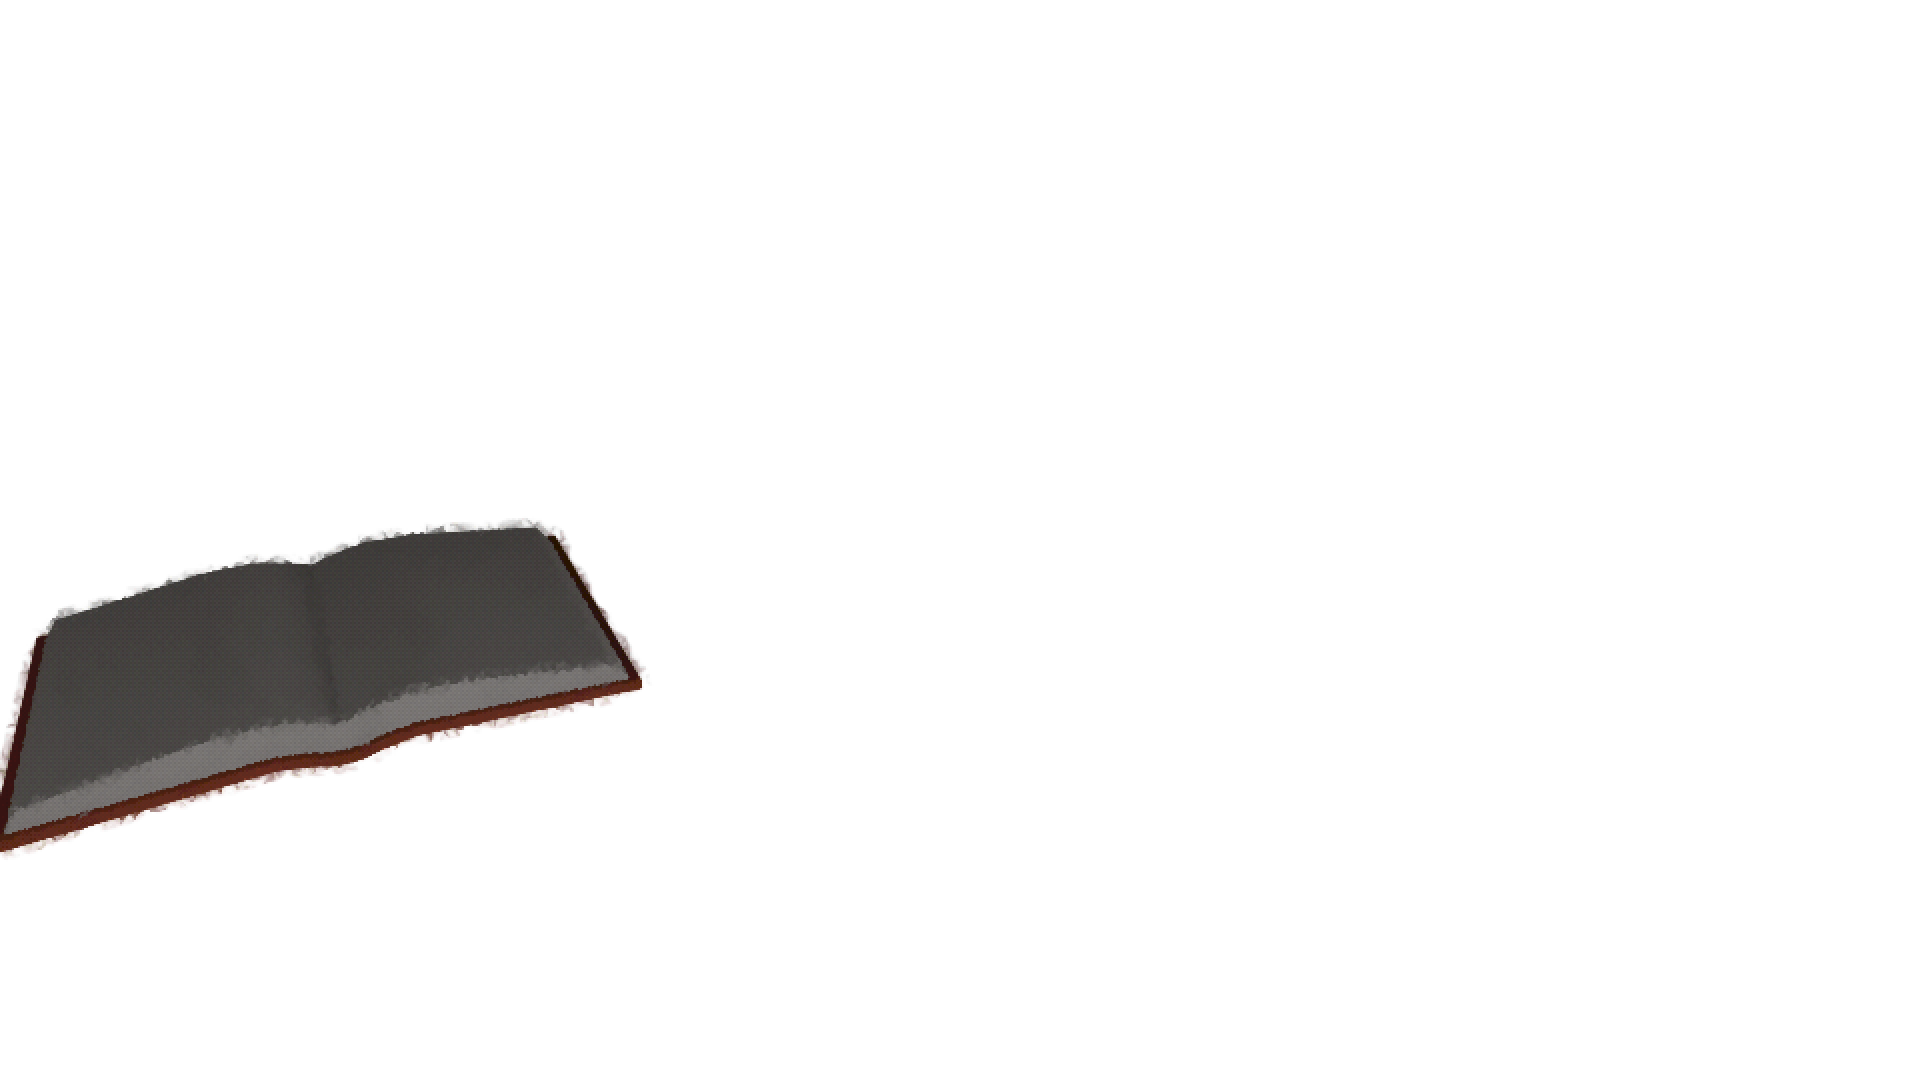
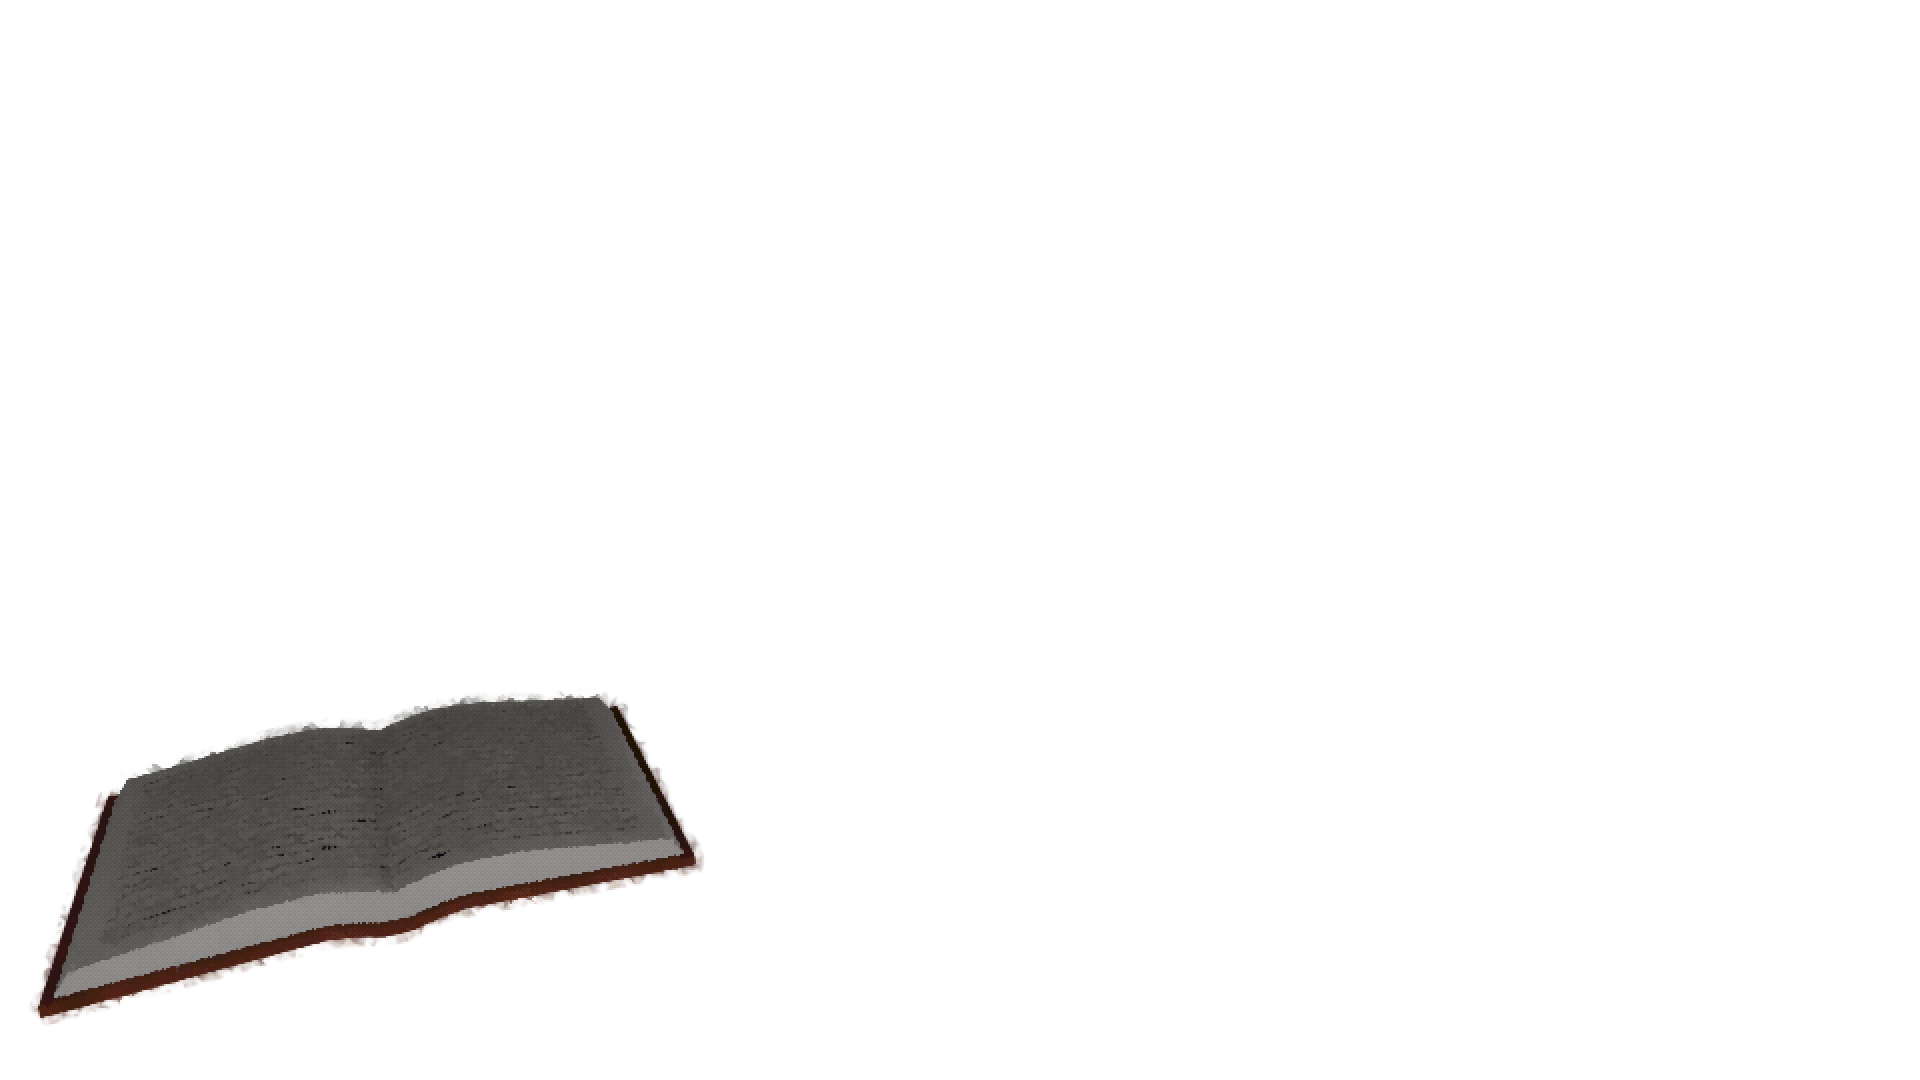
new graphics and animation

Changed region(s): [[0.0, 0.4583, 0.375, 0.9472]]

diff --git a/src/game/level.rs b/src/game/level.rs
@@ -3,7 +3,16 @@
 use bevy::{audio::Source, prelude::*};
 
 use crate::{
-    asset_tracking::LoadResource, audio::music, game::{animation::transition_scene, tooltip}, screens::{Screen, gameplay::{ShopArea::{CookingArea, Storefront}, storefront::storefront_scene}},
+    asset_tracking::LoadResource,
+    audio::music,
+    game::{animation::transition_scene, tooltip},
+    screens::{
+        Screen,
+        gameplay::{
+            ShopArea::{CookingArea, Storefront},
+            storefront::storefront_scene,
+        },
+    },
 };
 
 pub(super) fn plugin(app: &mut App) {
@@ -32,6 +41,8 @@ pub struct LevelAssets {
     #[dependency]
     pub cauldron: Handle<Image>,
     #[dependency]
+    pub cauldron_empty: Vec<Handle<Image>>,
+    #[dependency]
     pub fire: Vec<Handle<Image>>,
     #[dependency]
     pub transition_animation: Vec<Handle<Image>>,
@@ -44,7 +55,7 @@ pub struct LevelAssets {
     #[dependency]
     pub cauldron_bubbling_sfx: Handle<AudioSource>,
     #[dependency]
-    pub fire_ambience_sfx: Handle<AudioSource>
+    pub fire_ambience_sfx: Handle<AudioSource>,
 }
 
 impl FromWorld for LevelAssets {
@@ -60,47 +71,68 @@ impl FromWorld for LevelAssets {
             book_highlight_storefront: assets.load("images/highlight/Book_1.png"),
             cauldron: assets.load("images/foreground/Cauldron.png"),
             cauldron_highlight: assets.load("images/highlight/Cauldron.png"),
+            cauldron_empty: vec![
+                assets.load("images/animation/cauldron_empty/cauldron0001.png"),
+                assets.load("images/animation/cauldron_empty/cauldron0002.png"),
+                assets.load("images/animation/cauldron_empty/cauldron0003.png"),
+                assets.load("images/animation/cauldron_empty/cauldron0004.png"),
+                assets.load("images/animation/cauldron_empty/cauldron0005.png"),
+                assets.load("images/animation/cauldron_empty/cauldron0006.png"),
+                assets.load("images/animation/cauldron_empty/cauldron0007.png"),
+                assets.load("images/animation/cauldron_empty/cauldron0008.png"),
+                assets.load("images/animation/cauldron_empty/cauldron0009.png"),
+                assets.load("images/animation/cauldron_empty/cauldron0010.png"),
+                assets.load("images/animation/cauldron_empty/cauldron0011.png"),
+                assets.load("images/animation/cauldron_empty/cauldron0012.png"),
+                assets.load("images/animation/cauldron_empty/cauldron0013.png"),
+                assets.load("images/animation/cauldron_empty/cauldron0014.png"),
+                assets.load("images/animation/cauldron_empty/cauldron0015.png"),
+                assets.load("images/animation/cauldron_empty/cauldron0016.png"),
+                assets.load("images/animation/cauldron_empty/cauldron0017.png"),
+                assets.load("images/animation/cauldron_empty/cauldron0018.png"),
+                assets.load("images/animation/cauldron_empty/cauldron0019.png"),
+                assets.load("images/animation/cauldron_empty/cauldron0020.png"),
+                assets.load("images/animation/cauldron_empty/cauldron0021.png"),
+                assets.load("images/animation/cauldron_empty/cauldron0022.png"),
+                assets.load("images/animation/cauldron_empty/cauldron0023.png"),
+                assets.load("images/animation/cauldron_empty/cauldron0024.png"),
+            ],
             fire: vec![
-                assets.load("images/foreground/Fire0001.png"),
-                assets.load("images/foreground/Fire0002.png"),
-                assets.load("images/foreground/Fire0003.png"),
-                assets.load("images/foreground/Fire0004.png"),
-                assets.load("images/foreground/Fire0005.png"),
-                assets.load("images/foreground/Fire0006.png"),
-                assets.load("images/foreground/Fire0007.png"),
-                assets.load("images/foreground/Fire0008.png"),
-                assets.load("images/foreground/Fire0009.png"),
-                assets.load("images/foreground/Fire0010.png"),
-                assets.load("images/foreground/Fire0009.png"),
-                assets.load("images/foreground/Fire0008.png"),
-                assets.load("images/foreground/Fire0007.png"),
-                assets.load("images/foreground/Fire0006.png"),
-                assets.load("images/foreground/Fire0005.png"),
-                assets.load("images/foreground/Fire0004.png"),
-                assets.load("images/foreground/Fire0003.png"),
-                assets.load("images/foreground/Fire0002.png"),
+                assets.load("images/foreground/fire/Fire0001.png"),
+                assets.load("images/foreground/fire/Fire0002.png"),
+                assets.load("images/foreground/fire/Fire0003.png"),
+                assets.load("images/foreground/fire/Fire0004.png"),
+                assets.load("images/foreground/fire/Fire0005.png"),
+                assets.load("images/foreground/fire/Fire0006.png"),
+                assets.load("images/foreground/fire/Fire0007.png"),
+                assets.load("images/foreground/fire/Fire0008.png"),
+                assets.load("images/foreground/fire/Fire0009.png"),
+                assets.load("images/foreground/fire/Fire0010.png"),
+                assets.load("images/foreground/fire/Fire0011.png"),
+                assets.load("images/foreground/fire/Fire0012.png"),
             ],
             fire_highlight: assets.load("images/highlight/Fire.png"),
             mortar: assets.load("images/foreground/Mortar.png"),
             mortar_highlight: assets.load("images/highlight/Mortar.png"),
             transition_animation: vec![
-                assets.load("images/animation/transition0001.png"),
-                assets.load("images/animation/transition0002.png"),
-                assets.load("images/animation/transition0003.png"),
-                assets.load("images/animation/transition0004.png"),
-                assets.load("images/animation/transition0005.png"),
-                assets.load("images/animation/transition0006.png"),
-                assets.load("images/animation/transition0007.png"),
-                assets.load("images/animation/transition0008.png"),
-                assets.load("images/animation/transition0009.png"),
-                assets.load("images/animation/transition0010.png"),
-                assets.load("images/animation/transition0011.png"),
-                assets.load("images/animation/transition0012.png"),
+                assets.load("images/animation/transition/transition0001.png"),
+                assets.load("images/animation/transition/transition0002.png"),
+                assets.load("images/animation/transition/transition0003.png"),
+                assets.load("images/animation/transition/transition0004.png"),
+                assets.load("images/animation/transition/transition0005.png"),
+                assets.load("images/animation/transition/transition0006.png"),
+                assets.load("images/animation/transition/transition0007.png"),
+                assets.load("images/animation/transition/transition0008.png"),
+                assets.load("images/animation/transition/transition0009.png"),
+                assets.load("images/animation/transition/transition0010.png"),
+                assets.load("images/animation/transition/transition0011.png"),
+                assets.load("images/animation/transition/transition0012.png"),
             ],
 
             // Audio
             cauldron_bubbling_sfx: assets.load("audio/sound_effects/boiling_cauldron.mp3"),
-            fire_ambience_sfx: assets.load("audio/sound_effects/Fire/engyclick-firewood-burning-sound-179862.mp3"),
+            fire_ambience_sfx: assets
+                .load("audio/sound_effects/Fire/engyclick-firewood-burning-sound-179862.mp3"),
         }
     }
 }
@@ -109,10 +141,7 @@ impl FromWorld for LevelAssets {
 pub struct LevelRoot;
 
 /// A system that spawns the main level.
-pub fn spawn_level(
-    mut commands: Commands,
-    level_assets: Res<LevelAssets>,
-) {
+pub fn spawn_level(mut commands: Commands, level_assets: Res<LevelAssets>) {
     commands.spawn_scene(bsn! {
         #LevelRoot
         LevelRoot

diff --git a/src/game/animation.rs b/src/game/animation.rs
@@ -14,7 +14,11 @@ pub(super) fn plugin(app: &mut App) {
     app.add_systems(
         Update,
         (
-            (update_fire_animation_timer,update_transition_animation_timer).in_set(AppSystems::TickTimers),
+            (
+                update_fire_animation_timer,
+                update_transition_animation_timer,
+            )
+                .in_set(AppSystems::TickTimers),
             (
                 // update_animation_movement,
                 update_fire_animation_sprite.run_if(in_state(ShopArea::CookingArea)),
@@ -25,7 +29,10 @@ pub(super) fn plugin(app: &mut App) {
         )
             .in_set(PausableSystems),
     );
-    app.add_systems(Update, next_state_when_transition_finished.run_if(in_state(ShopArea::TransitionAnimation)));
+    app.add_systems(
+        Update,
+        next_state_when_transition_finished.run_if(in_state(ShopArea::TransitionAnimation)),
+    );
 }
 
 /// Update the animation timer.
@@ -44,8 +51,8 @@ pub struct FireAnimation {
 }
 
 impl FireAnimation {
-    pub const ANIMATION_FRAMES: usize = 18;
-    const ANIMATION_INTERVAL: Duration = Duration::from_millis(100);
+    pub const ANIMATION_FRAMES: usize = 12;
+    const ANIMATION_INTERVAL: Duration = Duration::from_millis(120);
     /// Update animation timers.
     pub fn update_timer(&mut self, delta: Duration) {
         self.timer.tick(delta);
@@ -69,7 +76,10 @@ impl FireAnimation {
 }
 
 /// Update the texture to reflect changes in the animation.
-fn update_fire_animation_sprite(mut query: Query<(&FireAnimation, &mut Sprite)>, level_assets: If<Res<LevelAssets>>) {
+fn update_fire_animation_sprite(
+    mut query: Query<(&FireAnimation, &mut Sprite)>,
+    level_assets: If<Res<LevelAssets>>,
+) {
     for (animation, mut sprite) in &mut query {
         if animation.changed() {
             sprite.image = level_assets.fire.get(animation.frame).unwrap().clone();
@@ -77,7 +87,11 @@ fn update_fire_animation_sprite(mut query: Query<(&FireAnimation, &mut Sprite)>,
     }
 }
 
-pub fn transition_scene(left_to_right: bool, next_state: ShopArea, level_assets: &LevelAssets) -> impl Scene {
+pub fn transition_scene(
+    left_to_right: bool,
+    next_state: ShopArea,
+    level_assets: &LevelAssets,
+) -> impl Scene {
     let transition = TransitionAnimation::new(left_to_right, next_state);
     bsn! {
         #TransitionAnimation
@@ -99,10 +113,13 @@ pub struct TransitionAnimation {
     timer: Timer,
     frame: usize,
     left_to_right: bool,
-    next_state: ShopArea
+    next_state: ShopArea,
 }
 
-fn next_state_when_transition_finished(transitions: Query<&TransitionAnimation>, mut next_state: ResMut<NextState<ShopArea>> ) {
+fn next_state_when_transition_finished(
+    transitions: Query<&TransitionAnimation>,
+    mut next_state: ResMut<NextState<ShopArea>>,
+) {
     for transition in transitions {
         if transition.is_finished() {
             next_state.set(transition.next_state)
@@ -112,7 +129,7 @@ fn next_state_when_transition_finished(transitions: Query<&TransitionAnimation>,
 
 impl TransitionAnimation {
     pub const ANIMATION_FRAMES: usize = 12;
-    const ANIMATION_INTERVAL: Duration = Duration::from_millis(80);
+    const ANIMATION_INTERVAL: Duration = Duration::from_millis(42);
     /// Update animation timers.
     pub fn update_timer(&mut self, delta: Duration) {
         self.timer.tick(delta);
@@ -142,7 +159,11 @@ impl TransitionAnimation {
     pub(crate) fn new(left_to_right: bool, next_state: ShopArea) -> Self {
         Self {
             timer: Timer::new(Self::ANIMATION_INTERVAL, TimerMode::Repeating),
-            frame: if left_to_right {0} else {Self::ANIMATION_FRAMES -1},
+            frame: if left_to_right {
+                0
+            } else {
+                Self::ANIMATION_FRAMES - 1
+            },
             left_to_right,
             next_state,
         }
@@ -150,10 +171,21 @@ impl TransitionAnimation {
 }
 
 /// Update the texture to reflect changes in the animation.
-fn update_transition_animation_sprite(mut query: Query<(&TransitionAnimation, &mut Sprite)>, level_assets: If<Res<LevelAssets>>) {
+fn update_transition_animation_sprite(
+    mut query: Query<(&TransitionAnimation, &mut Sprite)>,
+    level_assets: If<Res<LevelAssets>>,
+) {
     for (animation, mut sprite) in &mut query {
         if animation.changed() {
-            sprite.image = level_assets.transition_animation.get(animation.frame.clamp(0, TransitionAnimation::ANIMATION_FRAMES-1)).unwrap().clone();
+            sprite.image = level_assets
+                .transition_animation
+                .get(
+                    animation
+                        .frame
+                        .clamp(0, TransitionAnimation::ANIMATION_FRAMES - 1),
+                )
+                .unwrap()
+                .clone();
         }
     }
 }
